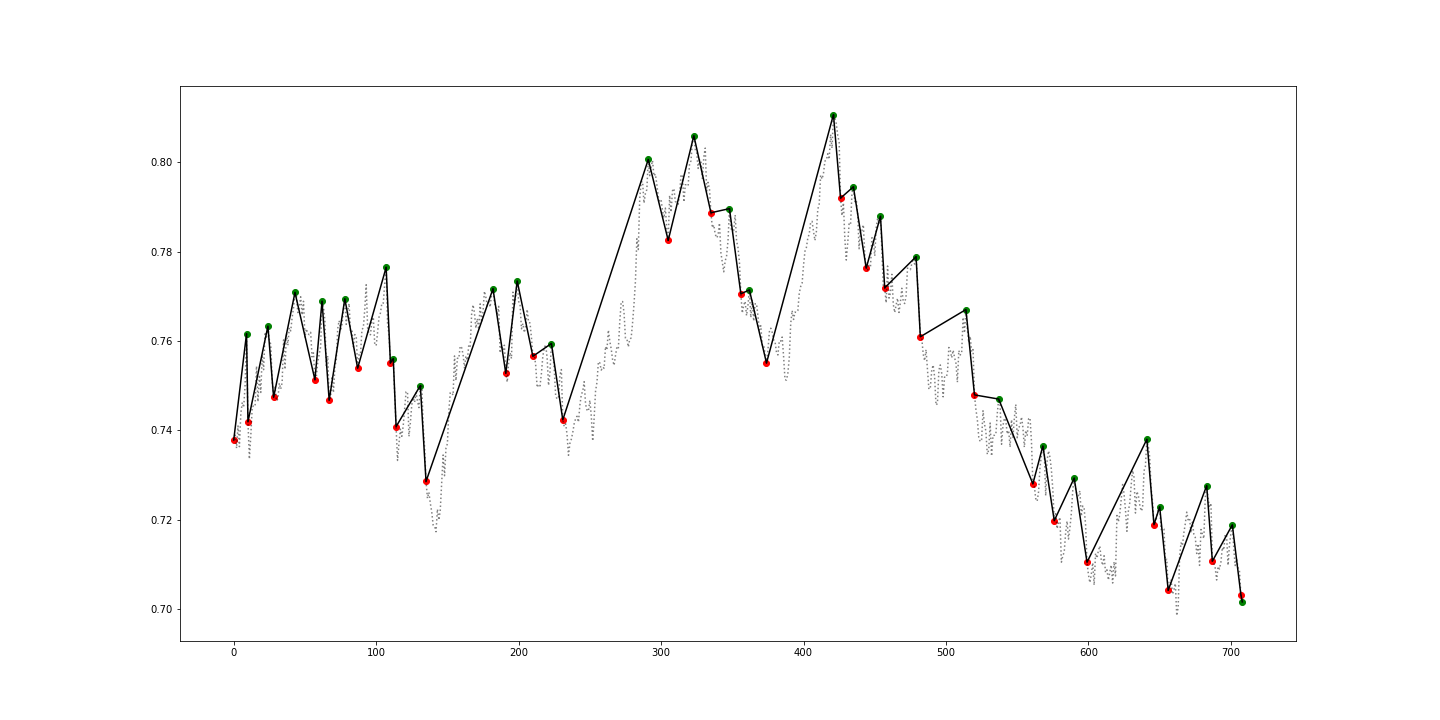
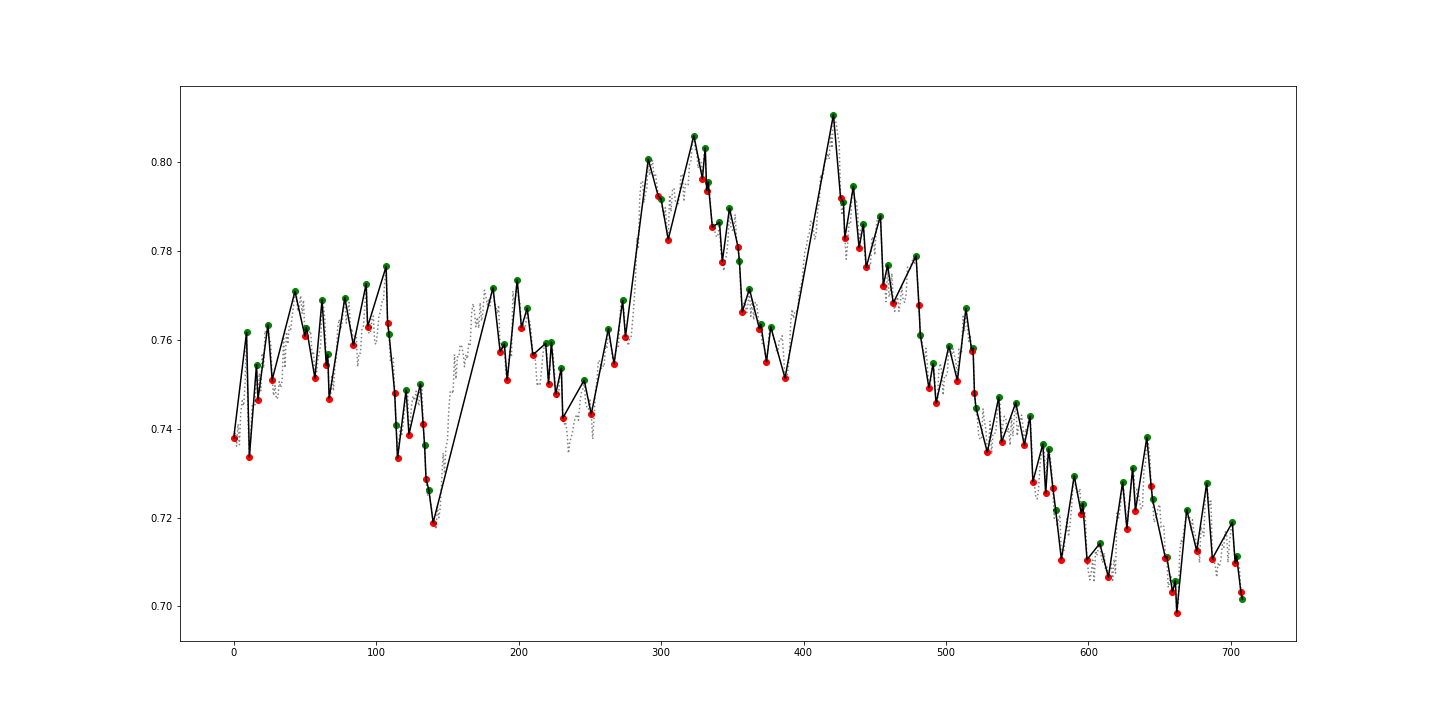
Working on SR detection

diff --git a/scripts/detect_SRareas.py b/scripts/detect_SRareas.py
@@ -8,6 +8,7 @@ from harea import HArea
 from candlelist import CandleList
 import argparse
 import numpy as np
+import pandas as pd
 
 parser = argparse.ArgumentParser(description='Script to detect SR areas for a particular instrument/granularity')
 
@@ -36,15 +37,17 @@ def estimate_bounces(price,plist):
     '''
 
     hr = HArea(price=price,
-               pips=100,
+               pips=hr_extension,
                instrument=args.instrument,
                granularity=args.granularity)
+
+    print("upper: {0} - lower: {1}".format(hr.upper,hr.lower))
 
 
     inarea_bounces = hr.inarea_bounces(plist=plist)
     if len(inarea_bounces)>1:
         inarea_cl = CandleList(inarea_bounces, instrument=args.instrument, granularity=args.granularity)
-        inarea_bounces = inarea_cl.improve_resolution(part='openAsk', price=price)
+        inarea_bounces = inarea_cl.improve_resolution(part='openAsk', price=price, min_dist=5)
 
     return inarea_bounces
 
@@ -105,7 +108,8 @@ def calc_surr_lengths(b_list):
                 pr_ms = ms
         bounce_lengths[b.time]={'pre': max_pr_ms.length(),
                                 'after': c_ms.length()}
-        return bounce_lengths
+
+    return bounce_lengths
 
 oanda = OandaAPI(url=config.OANDA_API['url'],
                  instrument=args.instrument,
@@ -132,14 +136,26 @@ plist = cl.get_pivotlist(th_down=config.SRarea['th_down'],
                          outfile="/Users/ernesto/PycharmProjects/FOREX/scripts/test.png")
 
 bounce_dict={}
-for p in np.arange(0.67985, 0.72219, 0.0001):
-    inarea_bs=estimate_bounces(price=p, plist=plist)
-    if len(inarea_bs)>0:
-        pdb.set_trace()
-        seg_lens=calc_surr_lengths(inarea_bs)
-        bounce_dict[p]=len(inarea_bs)
 
-bounce_dict_sorted = {k: v for k, v in sorted(bounce_dict.items(), key=lambda x: x[1])}
+hr_extension=30
+increment_price=0.006 # the increment of price in number of pips is double the hr_extension
+for p in np.arange(0.67985, 0.72219, increment_price):
+    print("Price: {0}".format(p))
+    inarea_bs=estimate_bounces(price=p, plist=plist)
+    print("Length: {0}".format(len(inarea_bs)))
+    if len(inarea_bs)>0:
+        seg_lens=calc_surr_lengths(inarea_bs)
+        bounce_dict[p]=seg_lens
+
+ix=1
+final_dict={}
+for price in bounce_dict.keys():
+    for d,segs in bounce_dict[price].items():
+        final_dict[ix]=[price,d,segs['pre'],segs['after']]
+        ix+=1
+
+df = pd.DataFrame.from_dict(final_dict, orient='index',columns=['price','datetime','pre','after'])
+
 pdb.set_trace()
 print("h")
 

diff --git a/src/candlelist.py b/src/candlelist.py
@@ -733,7 +733,7 @@ class CandleList(object):
 
         return cl
 
-    def improve_resolution(self,price,min_dist=None,part='closeAsk'):
+    def improve_resolution(self,price,min_dist,part='closeAsk'):
         '''
         Function used to improve the resolution of the identified maxima/minima. This function will select
         the candle closer to 'price' when there are 2 candles less than 'min_dist' apart
@@ -743,7 +743,7 @@ class CandleList(object):
         price : float
                 Price that will be used as the reference to select one of the candles
         min_dist : int
-                   minimum distance between the identified max/min. Optional
+                   minimum distance between the identified max/min. Required
         part: str
               Candle part used for the calculation. Default='closeAsk'
 

diff --git a/src/config.py b/src/config.py
@@ -77,8 +77,8 @@ TREND = {
 
 SRarea = {
     'period' : 1000, # Number of candles used for identifying the SR areas
-    'th_up' : 0.02,
-    'th_down' : -0.02
+    'th_up' : 0.01,
+    'th_down' : -0.01
 }
 
 SEGMENT = {
